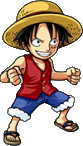
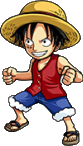
miroir image ok

diff --git a/select_player.py b/select_player.py
@@ -65,8 +65,10 @@ class SelectPersoPage:
                         return "home"
                     elif self.player1_rect.collidepoint(pos):
                         self.joueur1.perso = self.select_perso(pos)
+                        self.retour_button.action()
                     elif self.player2_rect.collidepoint(pos):
                         self.joueur2.perso = self.select_perso(pos)
+                        self.retour_button.action()
                     elif self.play_rect.collidepoint(pos):
                         if self.joueur1.perso is not None and self.joueur2.perso is not None:
                             play_page = Play(self.screen, self.joueur1, self.joueur2, self.perso_images, self.ser)
